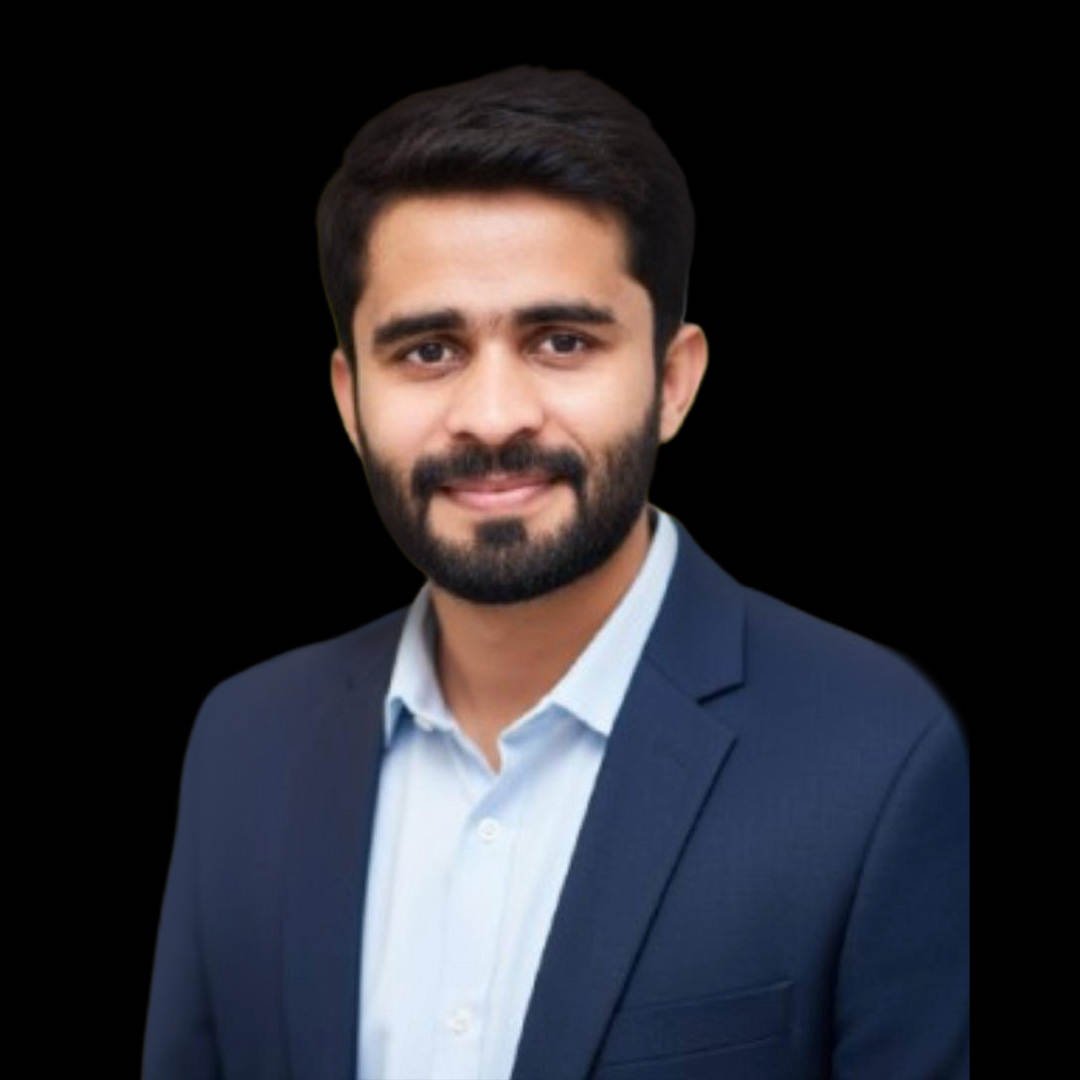
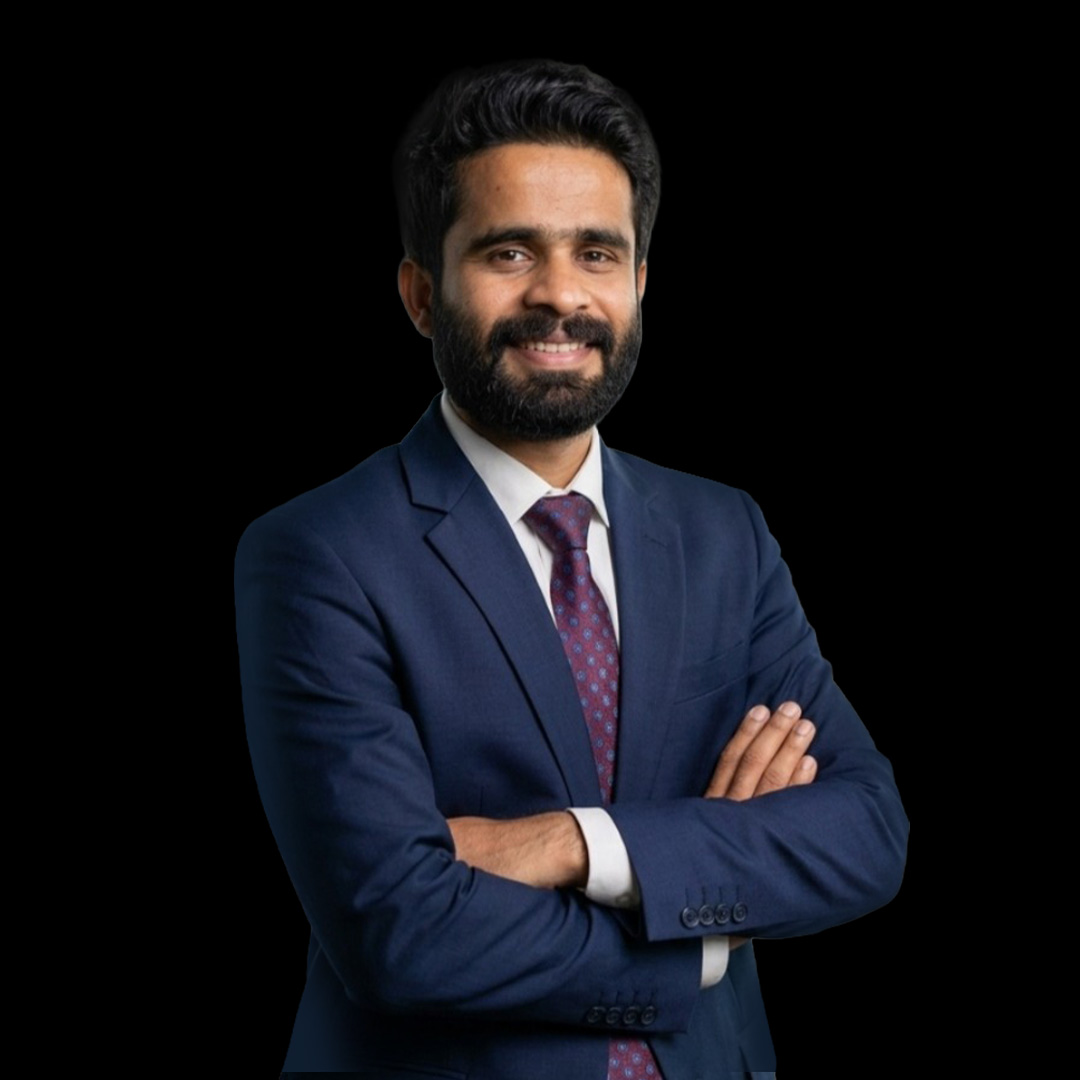
21 April change some pic and some description in web

diff --git a/components/Services.tsx b/components/Services.tsx
@@ -7,7 +7,7 @@ import image from "next/image";
 const services = [
   {
     // icon: "💻",
-    image: "/4.jpg",
+    image: "/web.jpeg",
     title: "Web Development",
     slug: "web-development",
     description:
@@ -16,7 +16,7 @@ const services = [
   },
   {
     // icon: "📱",
-    image: "/1.jpg",
+    image: "/mobile.jpeg",
     title: "Mobile App Development",
     slug: "mobile-app-development",
     description:
@@ -25,7 +25,7 @@ const services = [
   },
   {
     // icon: "✅",
-    image: "/2.jpg",
+    image: "/testing.jpeg",
     title: "Software Testing",
     slug: "software-testing",
     description:
@@ -34,7 +34,7 @@ const services = [
   },
   {
     // icon: "⚙",
-    image: "/6.jpg",
+    image: "/custum.jpeg",
     title: "Custom Software Development",
     slug: "custom-software-development",
     description:
@@ -43,7 +43,7 @@ const services = [
   },
   {
     // icon: "🧠",
-      image: "/3.jpg",
+      image: "/AI-Machine.jpeg",
     title: "AI & Machine Learning Development",
     slug: "ai-machine-learning-development",
     description: "Your business — now intelligent.",
@@ -51,7 +51,7 @@ const services = [
   },
   {
     // icon: "✨",
-    image: "/5.jpg",
+    image: "/UIUX-Designing.jpeg",
     title: "UI/UX Designing",
     slug: "ui-ux-designing",
     description: "User-centered UI/UX design services",
@@ -59,7 +59,7 @@ const services = [
   },
   {
     // icon: "☁",
-    image: "/7.jpeg",
+    image: "/devops.jpeg",
     title: "Devops and Cloud",
     slug: "devops-cloud-services",
     description: "Cloud that delivers. DevOps that empowers.",
@@ -67,7 +67,7 @@ const services = [
   },
   {
     // icon: "🏢",
-    image: "/8.jpeg",
+    image: "/saas.jpeg",
     title: "SAAS Development",
     slug: "saas-development",
     description:
@@ -76,7 +76,7 @@ const services = [
   },
   {
     // icon: "🚀",
-    image: "/9.jpeg",
+    image: "/MVP.jpeg",
     title: "MVP Development",
     slug: "mvp-development",
     description: "Validate ideas and launch quicker, smarter.",
@@ -84,7 +84,7 @@ const services = [
   },
   {
     // icon: "🎨",
-    image: "/10.jpeg",
+    image: "/graphic.jpeg",
     title: "Graphic Designing",
     slug: "graphic-designing",
     description:
@@ -94,7 +94,7 @@ const services = [
 
   {
     // icon: "💼",
-      image: "/11.png",
+      image: "/IT.jpeg",
     title: "IT Consultation",
     slug: "it-consultation",
     description: "Consulting that works — even when you’re offline.",
@@ -102,7 +102,7 @@ const services = [
   },
   {
     // icon: "📲",
-    image: "/12.png",
+    image: "/enter.jpeg",
     title: "Enterprise Mobility Solutions",
     slug: "enterprise-mobility-solutions",
     description: "Mobility that accelerates efficiency.",
@@ -110,7 +110,7 @@ const services = [
   },
   {
     // icon: "⛓",
-    image: "/7.jpeg",
+    image: "block-chain.jpeg",
     title: "Blockchain",
     slug: "blockchain-development",
     description: "Trust, transparency, and transactions—redefined.",

diff --git a/components/Footer.tsx b/components/Footer.tsx
@@ -39,7 +39,7 @@ export default function Footer() {
                   </svg> +61469021387</p>
                 <p className='flex gap-2 text-gray-400 text-sm'><svg className="w-4 h-4 flex-shrink-0" fill="none" color='rgb(239 68 68)' stroke="currentColor" viewBox="0 0 24 24">
                   <path strokeLinecap="round" strokeLinejoin="round" strokeWidth={2} d="M3 8l7.89 5.26a2 2 0 002.22 0L21 8M5 19h14a2 2 0 002-2V7a2 2 0 00-2-2H5a2 2 0 00-2 2v10a2 2 0 002 2z" />
-                  </svg> Hr@codexpace.com
+                  </svg> hr@codexpace.com
                 </p>
               </div>
 
@@ -68,7 +68,7 @@ export default function Footer() {
                 </p>
                 <p className='flex gap-2 text-gray-400 text-sm'><svg className="w-4 h-4 flex-shrink-0" fill="none" color='rgb(239 68 68)' stroke="currentColor" viewBox="0 0 24 24">
                   <path strokeLinecap="round" strokeLinejoin="round" strokeWidth={2} d="M3 8l7.89 5.26a2 2 0 002.22 0L21 8M5 19h14a2 2 0 002-2V7a2 2 0 00-2-2H5a2 2 0 00-2 2v10a2 2 0 002 2z" />
-                  </svg> Hr@codexpace.com
+                  </svg> hr@codexpace.com
                 </p>
               </div>
 
@@ -97,7 +97,7 @@ export default function Footer() {
                 </p>
                 <p className='flex gap-2 text-gray-400 text-sm'><svg className="w-4 h-4 flex-shrink-0" fill="none" color='rgb(239 68 68)' stroke="currentColor" viewBox="0 0 24 24">
                   <path strokeLinecap="round" strokeLinejoin="round" strokeWidth={2} d="M3 8l7.89 5.26a2 2 0 002.22 0L21 8M5 19h14a2 2 0 002-2V7a2 2 0 00-2-2H5a2 2 0 00-2 2v10a2 2 0 002 2z" />
-                  </svg> Hr@codexpace.com
+                  </svg> hr@codexpace.com
                 </p>
               </div>
 
@@ -126,7 +126,7 @@ export default function Footer() {
                 </p>
                 <p className='flex gap-2 text-gray-400 text-sm'><svg className="w-4 h-4 flex-shrink-0" fill="none" color='rgb(239 68 68)' stroke="currentColor" viewBox="0 0 24 24">
                   <path strokeLinecap="round" strokeLinejoin="round" strokeWidth={2} d="M3 8l7.89 5.26a2 2 0 002.22 0L21 8M5 19h14a2 2 0 002-2V7a2 2 0 00-2-2H5a2 2 0 00-2 2v10a2 2 0 002 2z" />
-                  </svg> Hr@codexpace.com
+                  </svg> hr@codexpace.com
                 </p>
               </div>
 

diff --git a/components/ContactForm.tsx b/components/ContactForm.tsx
@@ -66,10 +66,11 @@ export default function ContactForm() {
           </span>
         </h2>
 
-        <div className="grid md:grid-cols-2 gap-8 items-start">
+        <div className="grid md:grid-cols-2 gap-8 items-center">
           {/* Left Side - Contact Info */}
           <div className=" flex flex-col items-center">
-            <h2 className="text-3xl md:text-4xl font-bold text-center mb-3">
+            <div>
+              <h2 className="text-3xl md:text-4xl font-bold mb-3">
               Ready to Get{" "}
               <span className="bg-gradient-to-r from-red-500 via-red-400 to-red-500 bg-clip-text text-transparent">
                 Started?
@@ -78,6 +79,7 @@ export default function ContactForm() {
             <p className="text-start text-gray-400 text-sm mb-12 max-w-[400px]">
               Turn your ideas into impactful digital products. Connect with our team for a free consultation and discover how we can help you achieve your business goals.
             </p>
+            </div>
           </div>
 
           {/* Right Side - Contact Form */}
@@ -108,7 +110,7 @@ export default function ContactForm() {
                   className="w-full bg-black/40 backdrop-blur-sm border border-red-500/30 rounded-lg px-4 py-2.5 text-white text-sm placeholder-gray-500 focus:outline-none focus:border-red-500"
                 />
               </div>
-              <div>
+              {/* <div>
                 <input
                   type="email"
                   name="email"
@@ -118,7 +120,7 @@ export default function ContactForm() {
                   required
                   className="w-full bg-black/40 backdrop-blur-sm border border-red-500/30 rounded-lg px-4 py-2.5 text-white text-sm placeholder-gray-500 focus:outline-none focus:border-red-500"
                 />
-              </div>
+              </div> */}
               <div>
                 <input
                   type="tel"

diff --git a/components/GlobalLeadership.tsx b/components/GlobalLeadership.tsx
@@ -8,29 +8,29 @@ const slides = [
     image: "Meenam-afzal.jpeg"
   },
   {
+    title: "Abdullah",
+    text: "Chief Systems Architect",
+    image: "Abdulllah.jpeg"
+  },
+  {
+    title: "Ali Reyan",
+    text: "Cheif Technology officer",
+    image: "ali-rehan.jpeg"
+  },
+  {
+    title: "Ans",
+    text: "Senior Backend developer",
+    image: "ans.png"
+  },
+  {
     title: "Asad Ali",
-    text: "CTO",
+    text: "Chief Sales Officer",
     image: "Asad-ali.jpeg"
   },
   {
     title: "Talha Zahid",
-    text: "COO",
+    text: "Chief Operational Officer",
     image: "Talha-Zahid.jpeg"
-  },
-  {
-    title: "Ali Reyan",
-    text: "Senior Software Architect",
-    image: "ali-rehan.jpeg"
-  },
-  {
-    title: "Abdullah",
-    text: "Co-Founder and Senior Developer",
-    image: "Abdulllah.jpeg"
-  },
-  {
-    title: "Ans",
-    text: "Lead Python Developer",
-    image: "ans.png"
   }
 ];
 

diff --git a/components/LatestProjects.tsx b/components/LatestProjects.tsx
@@ -161,9 +161,7 @@ export default function LatestProjects() {
                   key={project.id}
                   className="bg-black/40 p-4 rounded-xl border-[2px] border-red-500/20 relative"
                 >
-                  <h3 className="text-lg font-semibold text-white mb-2 w-fit
-                   px-5 py-3
-                  ">
+                  <h3 className="text-lg font-semibold text-white mb-2 w-fit py-3 ">
                     {project.name}
                   </h3>
 
@@ -171,7 +169,7 @@ export default function LatestProjects() {
                     {project.description}
                   </p>
 
-                  <div className="relative w-full aspect-[3/4]">
+                  <div className="relative w-full aspect-[2/1] mb-[55px]">
                     <Image
                       src={project.image}
                       alt={project.name}
